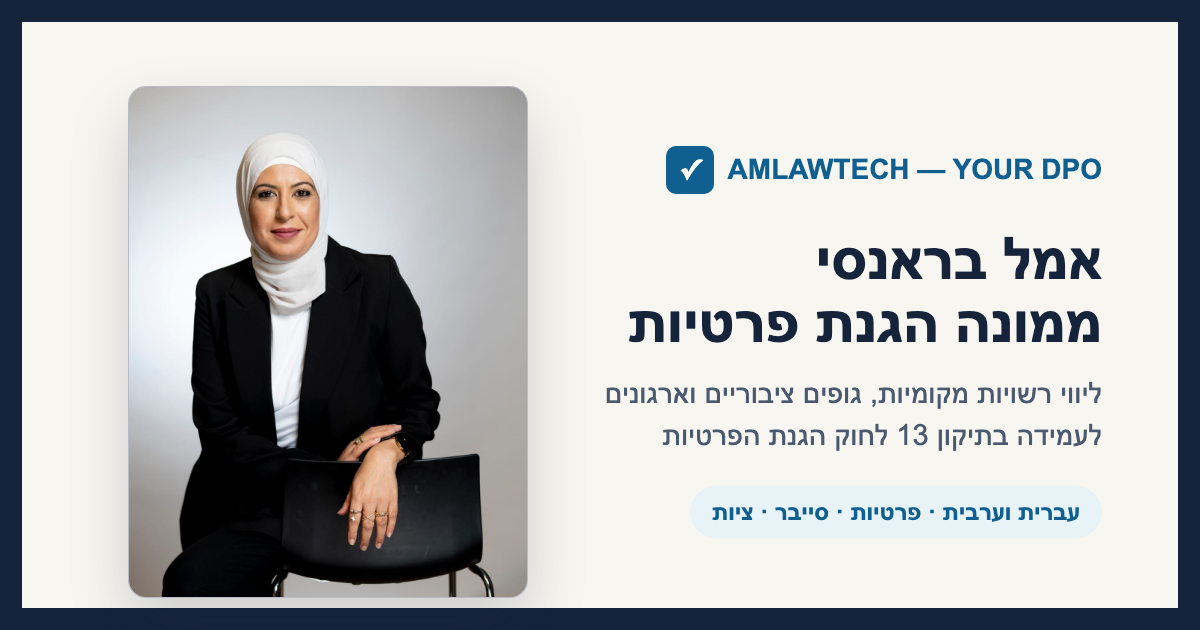
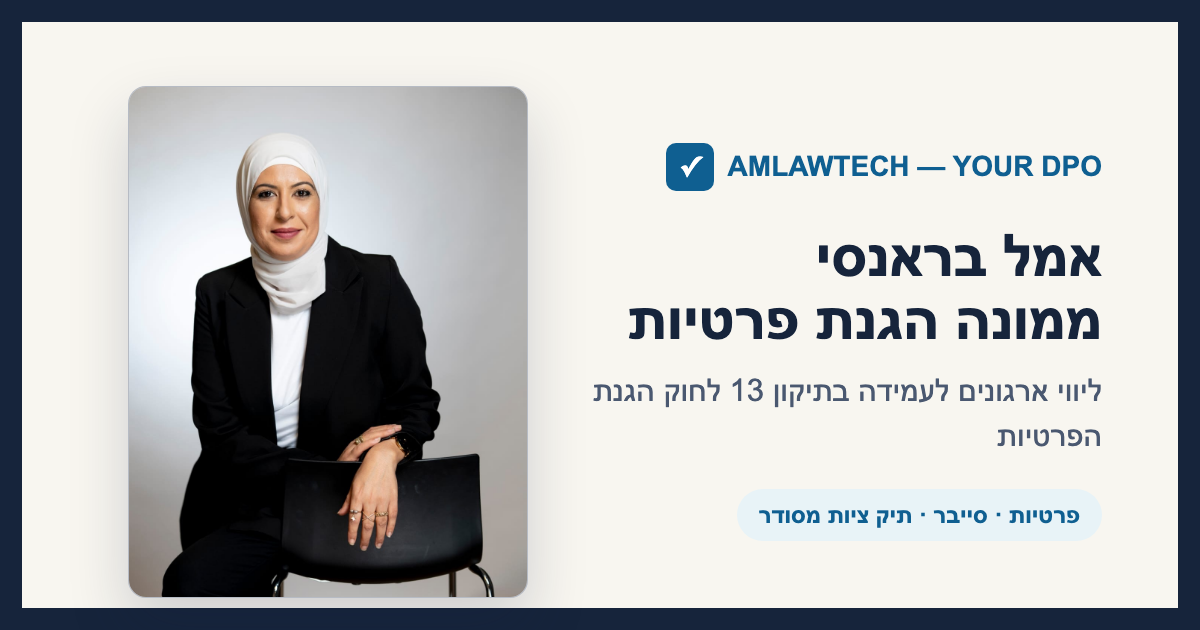
Apply Amal site email updates

diff --git a/src/components/DpoWebsite.tsx b/src/components/DpoWebsite.tsx
@@ -118,17 +118,20 @@ const clientTypes = [
 const contactDetails = [
   {
     label: "דוא״ל",
-    value: "להשלים",
+    value: "A@aklaw.ai",
+    href: "mailto:A@aklaw.ai",
     icon: Mail,
   },
   {
     label: "טלפון",
-    value: "להשלים",
+    value: "054-242-9950",
+    href: "tel:+972542429950",
     icon: Phone,
   },
   {
     label: "לינקדאין",
-    value: "להשלים",
+    value: "Amal Kamal Baransi",
+    href: "https://www.linkedin.com/in/amal-kamal-baransi-747158154/",
     icon: MessageSquare,
   },
 ];
@@ -141,7 +144,7 @@ function SectionIntro({
 }: {
   eyebrow: string;
   title: string;
-  description: string;
+  description?: string;
   align?: "center" | "start";
 }) {
   return (
@@ -157,7 +160,9 @@ function SectionIntro({
       <h2 className="text-balance text-3xl font-extrabold leading-tight text-foreground sm:text-4xl">
         {title}
       </h2>
-      <p className="text-lg leading-8 text-muted-foreground">{description}</p>
+      {description ? (
+        <p className="text-lg leading-8 text-muted-foreground">{description}</p>
+      ) : null}
     </div>
   );
 }
@@ -256,13 +261,12 @@ function Hero() {
               אמל בראנסי | ממונה הגנת פרטיות (DPO)
             </h1>
             <p className="max-w-2xl text-xl font-bold leading-9 text-primary">
-              ליווי רשויות מקומיות, גופים ציבוריים וארגונים לעמידה בתיקון 13
-              לחוק הגנת הפרטיות
+              ליווי ארגונים לעמידה בתיקון 13 לחוק הגנת הפרטיות
             </p>
             <p className="max-w-2xl text-lg leading-8 text-muted-foreground">
               תיקון 13 נכנס לתוקף והרחיב את חובות הארגון ואת סמכויות האכיפה של
               רשות הגנת הפרטיות. אני מלווה ארגונים משלב המיפוי ועד תיק ציות
-              מסודר שמחזיק גם ביום ביקורת — בעברית ובערבית.
+              מסודר שמחזיק גם ביום ביקורת.
             </p>
           </div>
 
@@ -330,7 +334,6 @@ function Services() {
         <SectionIntro
           eyebrow="תחומי ליווי"
           title="כל שכבת הציות, בלי להעמיס על הארגון"
-          description="האתר בנוי סביב שירותים שמנהלים באמת צריכים: מיפוי סיכונים, אחריות ברורה, מסמכים שאפשר להשתמש בהם והדרכה שמצמצמת טעויות."
         />
 
         <div className="grid gap-4 md:grid-cols-2 lg:grid-cols-3">
@@ -490,7 +493,7 @@ function ClientTypes() {
         <SectionIntro
           eyebrow="עם מי אני עובדת"
           title="ליווי לארגונים שמנהלים מידע רגיש, ציבורי או תפעולי"
-          description="ליווי שוטף של רשויות מקומיות, תאגידים עירוניים, גופים ציבוריים ועסקים פרטיים — מארגונים המנהלים מאגרי מידע רגישים ועד גופים המחזיקים במידע עבור צדדים שלישיים."
+          description="ליווי שוטף של רשויות מקומיות, תאגידים עירוניים, גופים ציבוריים, בתי חולים ומרפאות ועסקים פרטיים — מארגונים המנהלים מאגרי מידע רגישים ועד גופים המחזיקים במידע עבור צדדים שלישיים."
         />
 
         <div className="mx-auto grid max-w-5xl gap-4 md:grid-cols-2 lg:grid-cols-3">
@@ -537,8 +540,9 @@ function Contact() {
           <CardHeader>
             <h3 className="text-2xl font-extrabold">פרטי קשר</h3>
             <p className="leading-7 text-muted-foreground">
-              פרטי ההתקשרות יושלמו לפני העלייה הסופית. אין באתר טופס פעיל, כדי
-              לא ליצור רושם של שליחת פנייה ולא לאסוף מידע ללא הודעת יידוע.
+              אין באתר טופס פעיל, כדי לא ליצור רושם של שליחת פנייה ולא לאסוף
+              מידע ללא הודעת יידוע. אפשר לפנות ישירות בדוא״ל, בטלפון או דרך
+              לינקדאין.
             </p>
           </CardHeader>
           <CardContent className="space-y-5">
@@ -555,22 +559,22 @@ function Contact() {
                       <Icon className="size-5 text-primary" aria-hidden="true" />
                       <span>{item.label}</span>
                     </div>
-                    <span className="font-extrabold text-muted-foreground">
+                    <a
+                      href={item.href}
+                      className="font-extrabold text-primary underline-offset-4 hover:underline"
+                      dir={
+                        item.label === "דוא״ל" || item.label === "טלפון"
+                          ? "ltr"
+                          : undefined
+                      }
+                      target={item.label === "לינקדאין" ? "_blank" : undefined}
+                      rel={item.label === "לינקדאין" ? "noreferrer" : undefined}
+                    >
                       {item.value}
-                    </span>
+                    </a>
                   </div>
                 );
               })}
-            </div>
-
-            <div className="rounded-lg border border-primary/20 bg-primary/5 p-5">
-              <p className="font-extrabold text-primary">
-                לאחר קבלת פרטי הקשר
-              </p>
-              <p className="mt-2 leading-7 text-muted-foreground">
-                אפשר להחליף את הכרטיסים בכפתורי דוא״ל, וואטסאפ ולינקדאין, או
-                לחבר טופס אמיתי עם הודעת יידוע לפי סעיף 11 לחוק ותיבת הסכמה.
-              </p>
             </div>
           </CardContent>
         </Card>

diff --git a/public/privacy/index.html b/public/privacy/index.html
@@ -138,7 +138,7 @@
 
     <main>
       <article class="container">
-        <span class="eyebrow">עודכן לאחרונה: 15.08.2026</span>
+        <span class="eyebrow">עודכן לאחרונה: 13.09.2026</span>
         <h1>מדיניות פרטיות</h1>
         <p>
           מדיניות זו מתייחסת לאתר התדמית של AMLAWTECH — YOUR DPO, אמל בראנסי,
@@ -154,9 +154,9 @@
 
         <h2>פנייה יזומה</h2>
         <p>
-          אם תבחרו לפנות דרך פרטי קשר שיפורסמו באתר בעתיד, המידע שתמסרו ישמש
-          לצורך טיפול בפנייה, תיאום שיחה ומתן מענה מקצועי. אין למסור מידע אישי
-          או רגיש שאינו נדרש לעצם הפנייה הראשונית.
+          אם תבחרו לפנות דרך פרטי הקשר באתר, המידע שתמסרו ישמש לצורך טיפול
+          בפנייה, תיאום שיחה ומתן מענה מקצועי. אין למסור מידע אישי או רגיש
+          שאינו נדרש לעצם הפנייה הראשונית.
         </p>
 
         <h2>עוגיות, אנליטיקה ושירותי צד שלישי</h2>
@@ -169,15 +169,16 @@
         <h2>שמירת מידע ואבטחה</h2>
         <p>
           מאחר שהאתר אינו קולט פניות בטופס פעיל, אין באתר מאגר פניות מקומי.
-          כאשר יחובר ערוץ יצירת קשר פעיל, ייבחנו מנגנוני שמירה, הרשאות ומחיקה
-          בהתאם לסוג המידע שייאסף בפועל.
+          פניות יישלחו לערוצי הקשר שבחרתם, כגון דוא״ל, טלפון או לינקדאין,
+          ויטופלו בהתאם לאופי הפנייה.
         </p>
 
         <h2>זכויות נושאי מידע</h2>
         <p>
           ניתן לפנות בבקשה לעיון, תיקון או מחיקה של מידע אישי שנמסר במסגרת
-          התקשרות ישירה. פרטי הקשר לנושאי פרטיות יושלמו לפני פרסום סופי של
-          האתר.
+          התקשרות ישירה בדוא״ל
+          <a href="mailto:A@aklaw.ai" dir="ltr">A@aklaw.ai</a>
+          או בטלפון <a href="tel:+972542429950" dir="ltr">054-242-9950</a>.
         </p>
 
         <h2>שינויים במדיניות</h2>

diff --git a/public/accessibility/index.html b/public/accessibility/index.html
@@ -138,7 +138,7 @@
 
     <main>
       <article class="container">
-        <span class="eyebrow">עודכן לאחרונה: 15.08.2026</span>
+        <span class="eyebrow">עודכן לאחרונה: 13.09.2026</span>
         <h1>הצהרת נגישות</h1>
         <p>
           AMLAWTECH — YOUR DPO פועלת להנגשת האתר כך שיהיה זמין, ברור ונוח
@@ -162,15 +162,16 @@
 
         <h2>פנייה בנושא נגישות</h2>
         <p>
-          אם נתקלתם בקושי בגלישה באתר או במסמך שאינו נגיש, ניתן יהיה לפנות
-          לפרטי הקשר שיפורסמו באתר. יש לציין את כתובת העמוד, סוג הבעיה, הדפדפן
-          והמכשיר שבו נעשה שימוש.
+          אם נתקלתם בקושי בגלישה באתר או במסמך שאינו נגיש, ניתן לפנות בדוא״ל
+          <a href="mailto:A@aklaw.ai" dir="ltr">A@aklaw.ai</a>
+          או בטלפון <a href="tel:+972542429950" dir="ltr">054-242-9950</a>.
+          יש לציין את כתובת העמוד, סוג הבעיה, הדפדפן והמכשיר שבו נעשה שימוש.
         </p>
 
         <h2>המשך טיפול</h2>
         <p>
-          הצהרה זו תעודכן כאשר יתווספו לאתר ערוצי פנייה פעילים, מסמכים נוספים
-          או רכיבים אינטראקטיביים חדשים.
+          הצהרה זו תעודכן כאשר יתווספו לאתר מסמכים נוספים או רכיבים
+          אינטראקטיביים חדשים.
         </p>
       </article>
     </main>

diff --git a/index.html b/index.html
@@ -5,7 +5,7 @@
     <meta name="viewport" content="width=device-width, initial-scale=1.0" />
     <meta
       name="description"
-      content="AMLAWTECH — YOUR DPO. אמל בראנסי, ממונה הגנת פרטיות, מלווה רשויות מקומיות, גופים ציבוריים וארגונים לעמידה בתיקון 13 לחוק הגנת הפרטיות."
+      content="AMLAWTECH — YOUR DPO. אמל בראנסי, ממונה הגנת פרטיות, מלווה ארגונים לעמידה בתיקון 13 לחוק הגנת הפרטיות."
     />
     <meta name="theme-color" content="#16243b" />
     <link rel="canonical" href="https://anas-yousef.github.io/dpo-website/" />
@@ -18,7 +18,7 @@
     />
     <meta
       property="og:description"
-      content="ליווי רשויות מקומיות, גופים ציבוריים וארגונים לעמידה בתיקון 13 לחוק הגנת הפרטיות — בעברית ובערבית."
+      content="ליווי ארגונים לעמידה בתיקון 13 לחוק הגנת הפרטיות."
     />
     <meta
       property="og:image"

diff --git a/tests/public-site.spec.ts b/tests/public-site.spec.ts
@@ -53,8 +53,18 @@ test.describe("Hebrew DPO public website", () => {
 
     await expect(page.locator("form")).toHaveCount(0);
     await expect(page.getByRole("heading", { name: "פרטי קשר" })).toBeVisible();
-    await expect(page.locator("#contact").getByText("דוא״ל", { exact: true })).toBeVisible();
-    await expect(page.getByText("להשלים").first()).toBeVisible();
+    await expect(page.getByRole("link", { name: "A@aklaw.ai" })).toHaveAttribute(
+      "href",
+      "mailto:A@aklaw.ai",
+    );
+    await expect(page.getByRole("link", { name: "054-242-9950" })).toHaveAttribute(
+      "href",
+      "tel:+972542429950",
+    );
+    await expect(page.getByRole("link", { name: "Amal Kamal Baransi" })).toHaveAttribute(
+      "href",
+      "https://www.linkedin.com/in/amal-kamal-baransi-747158154/",
+    );
 
     await page.getByRole("link", { name: "מדיניות פרטיות" }).click();
     await expect(page.getByRole("heading", { name: "מדיניות פרטיות" })).toBeVisible();

diff --git a/docs/features/public-website/README.md b/docs/features/public-website/README.md
@@ -20,12 +20,12 @@ Create the first static public website for a Hebrew RTL DPO / privacy-law / cybe
 - Compliance-risk education section.
 - Self-assessment questions.
 - Real client-type section without invented testimonials.
-- Contact section without a fake form until real delivery/contact details are configured.
+- Contact section with email, phone, and LinkedIn links, and no fake form.
 - Footer with contact, privacy, and accessibility links.
 
 ## Contact Behavior
 
-The public page must not show a form that appears active but loses submissions. Until real contact details are provided, the contact area presents explicit placeholders. A future task can add mailto, WhatsApp, LinkedIn, or a real form backend after adding section 11 notice and consent copy.
+The public page must not show a form that appears active but loses submissions. Contact is handled through direct email, phone, and LinkedIn links. A future task can add a real form backend only after adding section 11 notice and consent copy.
 
 ## Acceptance Criteria
 

diff --git a/docs/README.md b/docs/README.md
@@ -9,7 +9,7 @@ This repo contains a static Hebrew RTL website for a DPO / privacy-law / cyberse
 - shadcn/ui-style local primitives
 - lucide-react icons
 - Hebrew-first RTL layout
-- Static contact section with real contact channel pending
+- Static contact section with email, phone, and LinkedIn links
 - Playwright smoke and visual sanity tests
 
 ## Out of scope
